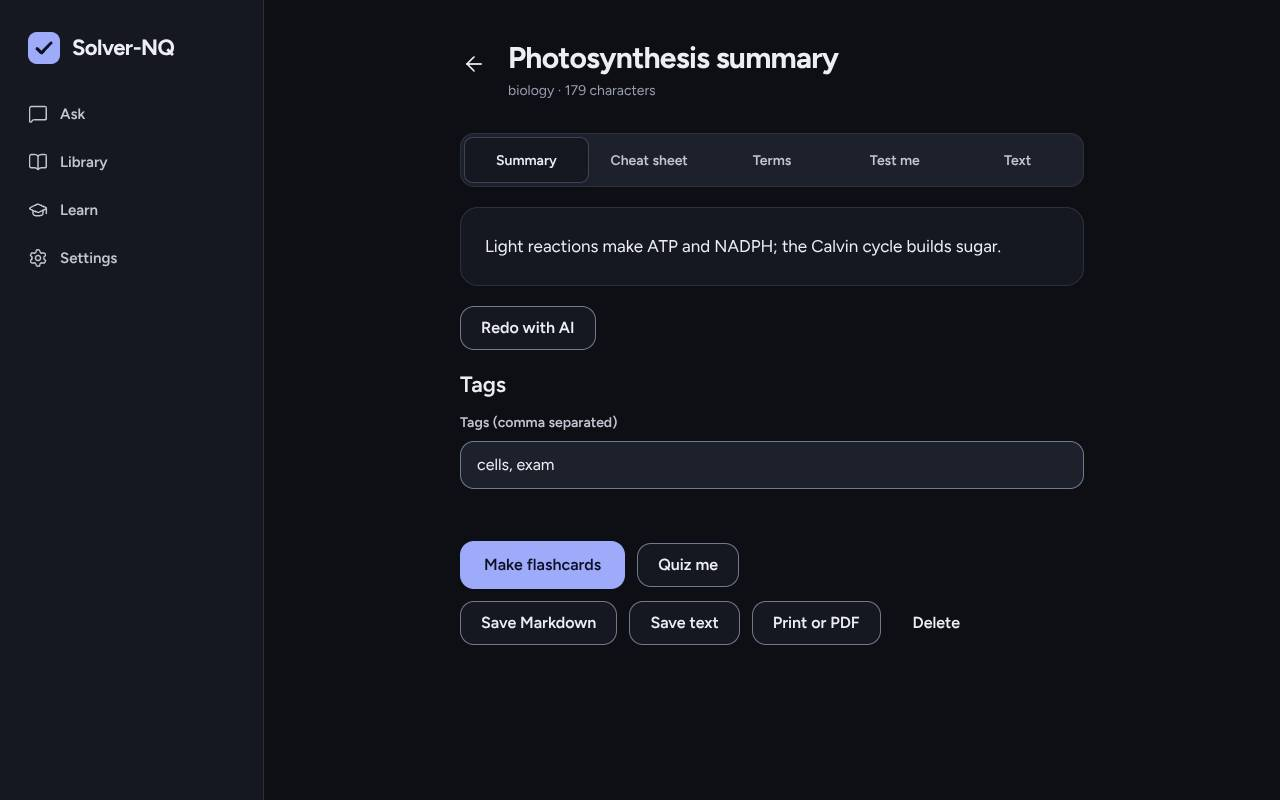
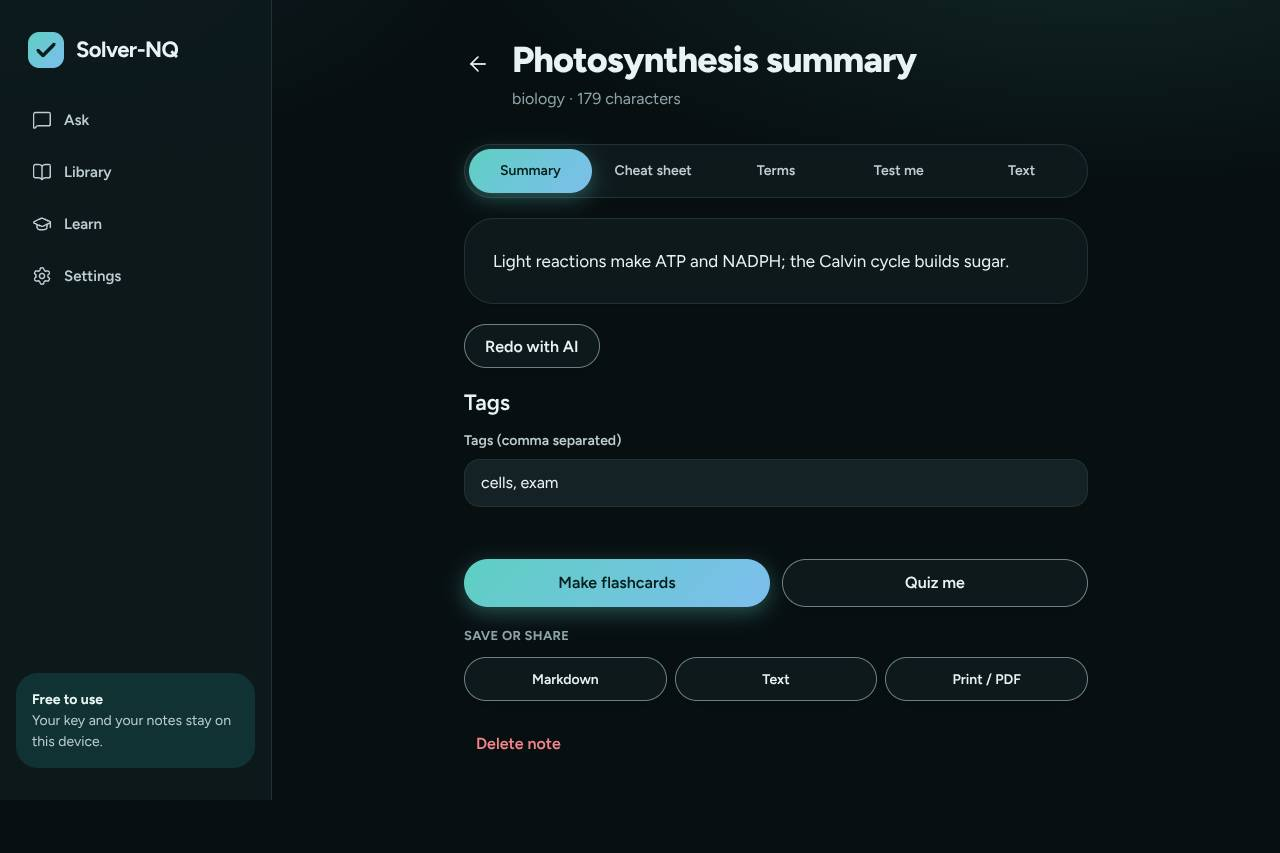
[AI-7] Design v3 Notes + Stats polish, shared Checkbox with 44 px hit area

diff --git a/src/features/notes/NoteActions.tsx b/src/features/notes/NoteActions.tsx
@@ -1,5 +1,5 @@
 import { Link, useNavigate } from 'react-router-dom';
-import { Button, Cluster, toast } from '@/components/ui';
+import { Button, toast } from '@/components/ui';
 import { deleteNote } from '@/lib/db';
 import { exportNote } from '@/lib/notes';
 import type { Note } from '@/types';
@@ -13,16 +13,17 @@ export function NoteActions({ note }: { note: Note }) {
   }
   return (
     <div data-no-print className="flex flex-col gap-3">
-      <Cluster gap={3}>
-        <Link to={`/learn/cards/new?note=${note.id}`}><Button>Make flashcards</Button></Link>
-        <Link to={`/learn/quiz?note=${note.id}`}><Button variant="secondary">Quiz me</Button></Link>
-      </Cluster>
-      <Cluster gap={3}>
-        <Button variant="secondary" onClick={() => save('md')}>Save Markdown</Button>
-        <Button variant="secondary" onClick={() => save('txt')}>Save text</Button>
-        <Button variant="secondary" onClick={() => window.print()}>Print or PDF</Button>
-        <Button variant="ghost" onClick={remove}>Delete</Button>
-      </Cluster>
+      <div className="grid grid-cols-2 gap-3">
+        <Link to={`/learn/cards/new?note=${note.id}`}><Button block>Make flashcards</Button></Link>
+        <Link to={`/learn/quiz?note=${note.id}`}><Button block variant="secondary" className="min-h-[48px]">Quiz me</Button></Link>
+      </div>
+      <p className="mt-2 text-caption font-bold uppercase tracking-wide text-muted">Save or share</p>
+      <div className="grid grid-cols-3 gap-2">
+        <Button variant="secondary" size="sm" className="min-h-[44px] px-2" onClick={() => save('md')}>Markdown</Button>
+        <Button variant="secondary" size="sm" className="min-h-[44px] px-2" onClick={() => save('txt')}>Text</Button>
+        <Button variant="secondary" size="sm" className="min-h-[44px] px-2" onClick={() => window.print()}>Print / PDF</Button>
+      </div>
+      <button type="button" onClick={remove} className="mt-2 min-h-[44px] self-start rounded-md px-3 text-base font-semibold text-bad transition hover:bg-bad-soft">Delete note</button>
     </div>
   );
 }

diff --git a/src/features/notes/NotesList.tsx b/src/features/notes/NotesList.tsx
@@ -1,6 +1,6 @@
 import { useEffect, useState } from 'react';
 import { Link } from 'react-router-dom';
-import { Button, Card, Chip, Cluster, EmptyState, Input, PageHeader, Skeleton, Stack, Toolbar } from '@/components/ui';
+import { Button, Card, Chip, Cluster, EmptyState, Input, PageHeader, Skeleton, Stack, SubjectTile, Toolbar } from '@/components/ui';
 import { listNotes } from '@/lib/db';
 import type { Note } from '@/types';
 
@@ -28,11 +28,12 @@ export function NotesList() {
             action={<Link to="/notes/new" className="inline-flex"><Button>Add your first note</Button></Link>} />
         ) : notes.map((n) => (
           <Link key={n.id} to={`/notes/${n.id}`} className="block">
-            <Card interactive className="min-h-[64px]">
-              <Stack gap={2}>
-                <h2 className="text-lg font-semibold text-ink">{n.title}</h2>
+            <Card interactive className="flex min-h-[64px] items-start gap-4">
+              <SubjectTile subject={n.subject} size={48} />
+              <Stack gap={2} className="min-w-0 flex-1">
+                <h2 className="text-lg font-bold text-ink">{n.title}</h2>
                 <p className="line-clamp-2 text-[15px] text-ink-2">{n.summary ?? n.text.slice(0, 160)}</p>
-                <p className="text-sm text-muted">{n.subject} · {new Date(n.updatedAt).toLocaleDateString()}</p>
+                <p className="text-sm capitalize text-muted">{n.subject} · {new Date(n.updatedAt).toLocaleDateString()}</p>
               </Stack>
             </Card>
           </Link>

diff --git a/src/components/ui/Checkbox.tsx b/src/components/ui/Checkbox.tsx
@@ -5,11 +5,25 @@ interface Props extends Omit<InputHTMLAttributes<HTMLInputElement>, 'type'> {
   label: string;
 }
 
-/** Checkbox with a 44px tap row and the theme accent. Use this instead of a raw <input type="checkbox">. */
+/**
+ * Checkbox whose real input covers the whole 44 px row (so the tap target is the row), drawn as a
+ * rounded brand box. Use this instead of a raw <input type="checkbox">.
+ */
 export function Checkbox({ label, className, ...rest }: Props) {
   return (
-    <label className={cn('flex min-h-[44px] cursor-pointer items-center gap-3 text-base', className)}>
-      <input type="checkbox" className="h-5 w-5 shrink-0 [accent-color:rgb(var(--accent))]" {...rest} />
+    <label className={cn('relative flex min-h-[44px] cursor-pointer items-center gap-3 text-base', className)}>
+      <input type="checkbox" className="peer absolute inset-0 h-full w-full cursor-pointer opacity-0" {...rest} />
+      <span
+        aria-hidden
+        className={cn(
+          'flex h-6 w-6 shrink-0 items-center justify-center rounded-sm border-2 border-line-strong bg-surface text-caption font-bold leading-none text-transparent transition',
+          'peer-checked:border-transparent peer-checked:bg-accent peer-checked:text-accent-ink',
+          'peer-focus-visible:outline peer-focus-visible:outline-2 peer-focus-visible:outline-offset-2 peer-focus-visible:outline-accent',
+          'peer-disabled:opacity-50',
+        )}
+      >
+        ✓
+      </span>
       <span>{label}</span>
     </label>
   );

diff --git a/src/features/learn/StatsPage.tsx b/src/features/learn/StatsPage.tsx
@@ -10,7 +10,7 @@ const pct = (n: number) => `${Math.round(n * 100)}%`;
 const EMPTY = 'Review some cards to see your progress';
 
 function Stat({ value, label }: { value: string | number; label: string }) {
-  return <Card className="px-3 py-4 text-center lg:p-5"><p className="text-2xl font-bold text-ink">{value}</p><p className="mt-1 text-[13px] text-ink-2">{label}</p></Card>;
+  return <Card className="px-3 py-4 text-center lg:p-5"><p className="text-2xl font-extrabold text-accent lg:text-3xl">{value}</p><p className="mt-1 text-[13px] font-semibold text-ink-2">{label}</p></Card>;
 }
 
 export function StatsPage() {

diff --git a/docs/status/AI-7.md b/docs/status/AI-7.md
@@ -55,3 +55,6 @@ After a server failure the 30 s rest was stored as a quota cooldown, so a second
 
 ## 13 Nov 2026 (AI-7): Phase 5 design, Learn lane (on AI-1's teal foundation; my earlier violet wave was dropped to avoid a clash)
 Learn home: brand-gradient hero (progress ring, big due count, streak pill, Start review / Start quiz inside it); decks are subject tiles with a due badge; Review flashcard is a larger card with a gradient top edge and a Question/Answer pill; thicker progress bar. Fixed axe findings: deck link names now match visible text; Review has an h1 (visually hidden). Learn routes: 0 axe findings, 0 layout findings except the shared Checkbox input (20 px) on /learn/quiz: **AI-1** please make the Checkbox input itself 44 px or enlarge its hit area (label is already 44 px). Still to do in my lane: Notes screens, Quiz run/results, Stats, Cards manager polish. Typecheck, lint, 385 tests pass.
+
+## 13 Nov 2026 (AI-7): Learn + Notes lane complete
+Notes list rows use SubjectTile; note detail actions regrouped (primary pair, "Save or share" row, red text Delete); Stats tiles use brand-coloured numbers; shared `Checkbox` rebuilt with a full-row 44 px input and a branded box (fixes the last /learn/quiz tap-target finding for every checkbox in the app; AI-1: done, nothing to do). learn + notes routes: 0 axe, 0 layout findings. 388 tests pass.
